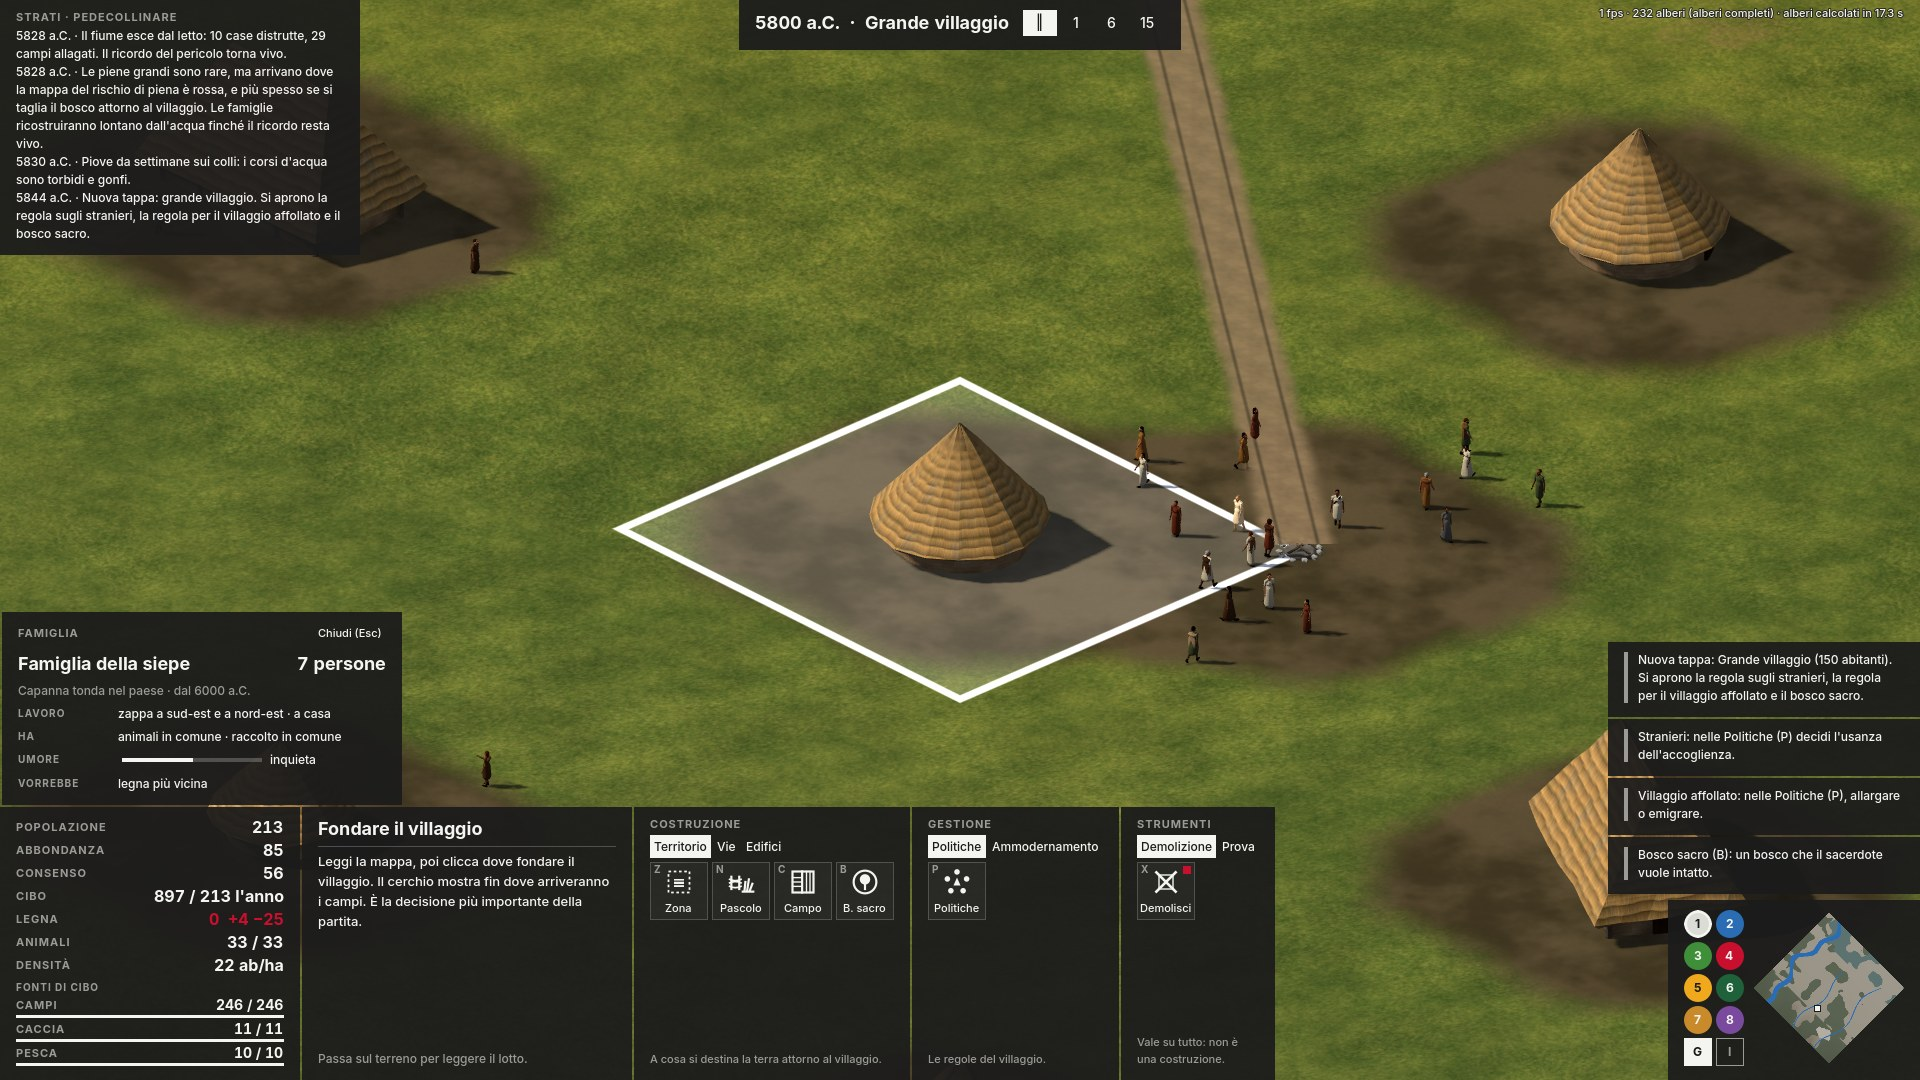
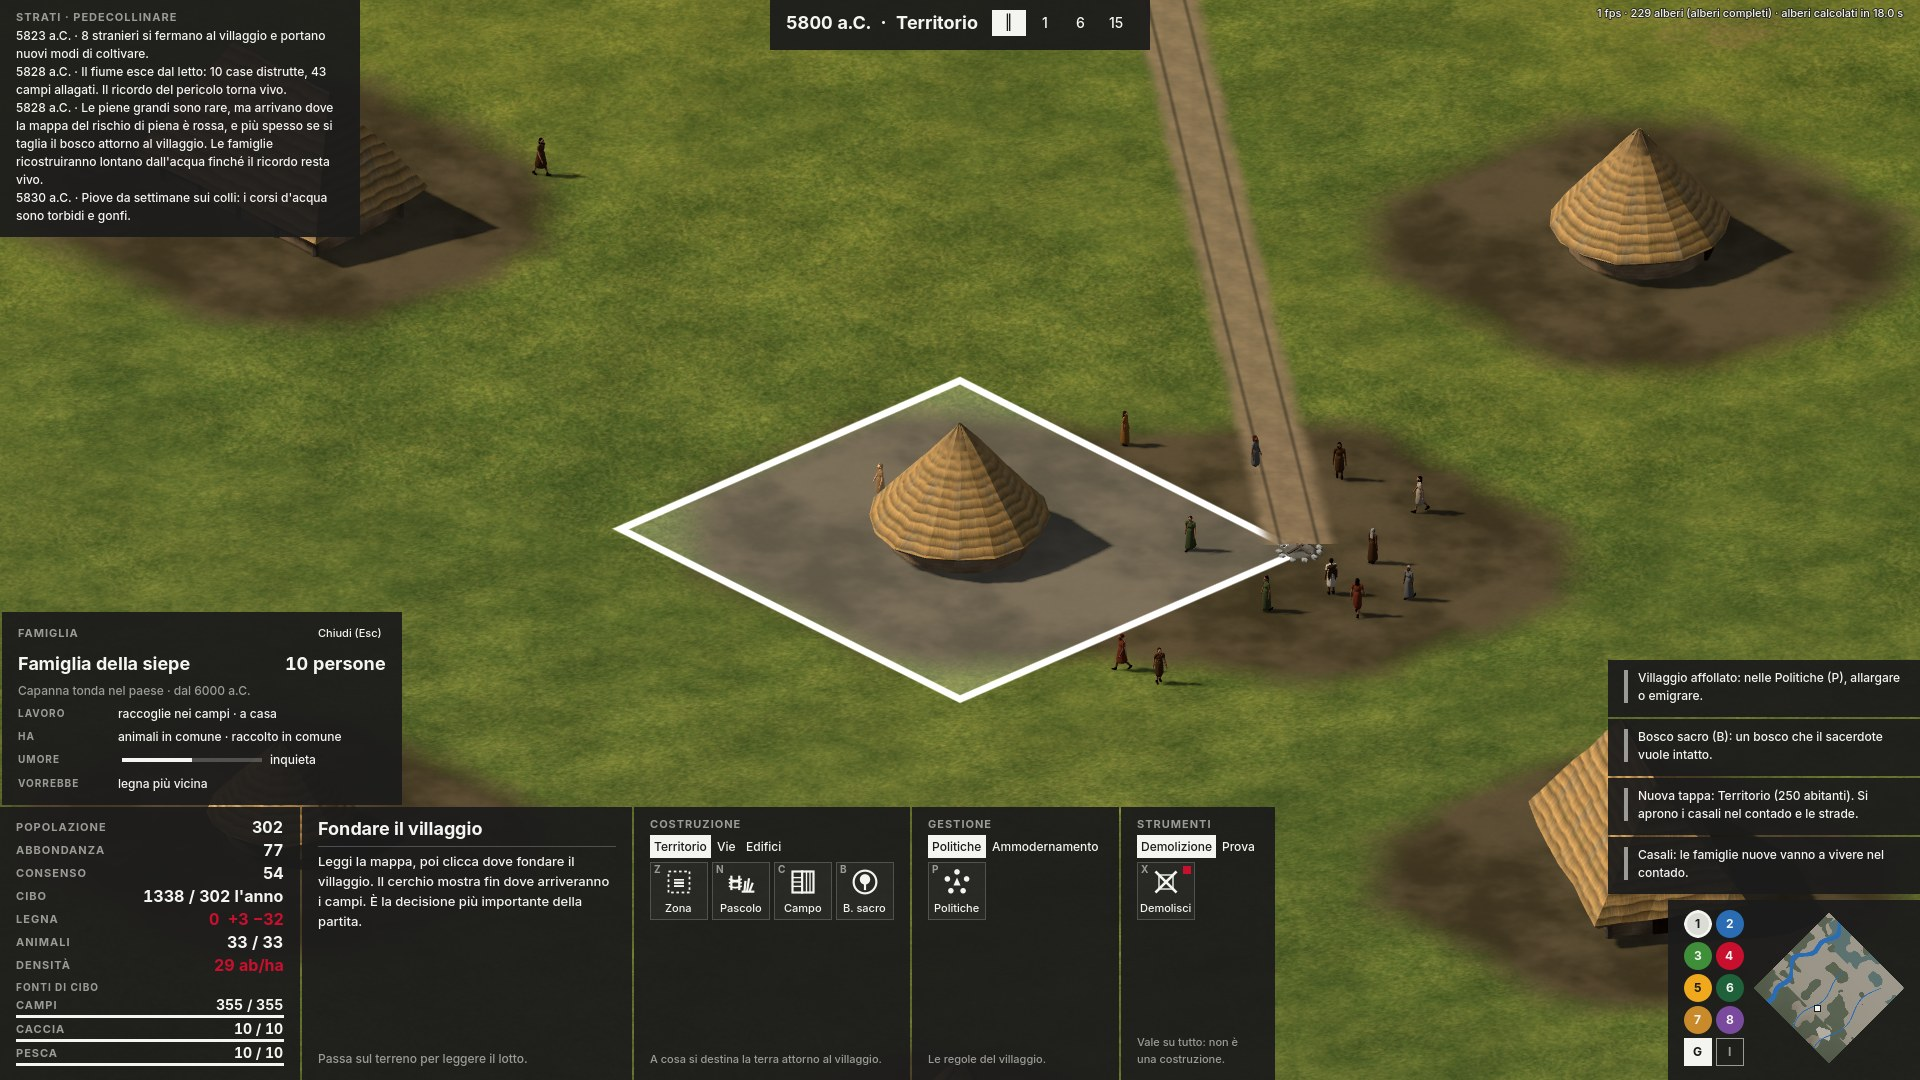
Umore di ogni famiglia (sola lettura) e prestigio nascosto per l'epoca 2
Claude-Session: https://claude.ai/code/session_01N4eDGq3PGQMQCKzRpjVvR5

diff --git a/docs/prototipo0-godot.md b/docs/prototipo0-godot.md
@@ -89,7 +89,8 @@ Vedi `era-origini.md`. Nel codice (`sim_villaggio.gd`, numeri da tarare, propost
 - **Assi dell'identità nascosti** (`SimVillaggio.identita`, `identita_verso`, `epoche-future.md` § 2): terra (in comune o alle famiglie), apertura, chi decide, governo, da −1 a 1. Seguono piano le politiche (raccolto, stranieri, disuguaglianza degli animali, granaio), circa 70 anni per fare metà della strada. Non cambiano nessuna regola: li legge lo specchietto e, all'evento soglia 1, serviranno a nominare il primo governo. Pesi dei gruppi in `SimVillaggio.pesi_consenso()`, tensione in `tensione()` (distanza tra i gruppi che contano e consenso basso), andamento in `andamento_consenso()`.
 
 - **Popolazione visibile** (decisione di Fede del 25–26/11/2026, todo voce 7; `script/vista_persone.gd`): ogni figura fa un lavoro vero. Ogni anno si rifà quante figure servono (al massimo 150; una figura vale 1, 2 o 5 persone secondo gli abitanti) e con che mestieri, nella proporzione del lavoro dell'anno: contadini (con la zappa) e raccoglitrici (con il cesto) nei campi, boscaioli attorno alle legnaie attive, pescatori sulla riva accanto ai capanni, cacciatori nel bosco dietro le poste, un pastore per gregge, tre costruttori per cantiere, tre persone al luogo sacro, il resto tra le case. Chi c'è tiene il suo mestiere finché il suo luogo esiste. Le figure camminano a 1,1 m/s, accelerano, girano e si fermano senza scatti; lavorano qualche decina di secondi in un punto, poi vanno in un altro, e ogni tanto tornano a casa e chiacchierano. Si disegnano solo con la vista sotto i 450 m (modelli completi sotto i 140 m). Numeri: proposta di Claude, da misurare con i fotogrammi al secondo sui PC di Fede. Ogni figura abita in una casa vera: le figure si dividono tra le case in parti uguali, e chi perde la casa va in un'altra.
-- **Scheda della famiglia** (decisione di Fede del 26/11/2026: una casa è una famiglia, nome dal luogo, clic su persone e case; `Partita.dati_famiglia`, `Hud._riempi_famiglia`): un clic senza strumenti su una persona o su una casa apre nel pannello di focus "FAMIGLIA": il nome dal luogo della casa (della pietra, del focolare, del guado, dei pioppi, del colle, del casale a nord; altrimenti un nome comune come dell'aia o del noce, senza doppioni: le case più vecchie scelgono per prime), quante persone, il tipo di casa e dove (nel paese o nel casale), da quando (o "arrivati da fuori nel…" per le case nate dopo un'accoglienza di stranieri), e quattro righe con il perché al passaggio del puntatore: **Lavoro** (dai membri visibili), **Ha** (capi e raccolto, secondo la politica del raccolto), **Umore** (il consenso delle famiglie), **Vorrebbe** (dal luogo della casa: al riparo dalle piene, più cibo, una legnaia o legna più vicina, più spazio, terra nuova, un sentiero verso il paese, un luogo sacro, un buon raccolto). La casa si incornicia sul terreno (`lotto_famiglia` nello shader del terreno) e i suoi membri si schiariscono (alfa del colore dell'istanza nello shader delle persone). Un clic altrove o Esc la chiudono. Legge solo dati che la simulazione ha già (`SimVillaggio.nascita_case` e `case_straniere` sono solo memoria): non cambia le dinamiche. Foto: `test/foto_partita.gd -- uscita 45 200 0 famiglia`, immagine `docs/immagini/famiglia-26-11.jpg`.
+- **Scheda della famiglia** (decisione di Fede del 26/11/2026: una casa è una famiglia, nome dal luogo, clic su persone e case; `Partita.dati_famiglia`, `Hud._riempi_famiglia`): un clic senza strumenti su una persona o su una casa apre nel pannello di focus "FAMIGLIA": il nome dal luogo della casa (della pietra, del focolare, del guado, dei pioppi, del colle, del casale a nord; altrimenti un nome comune come dell'aia o del noce, senza doppioni: le case più vecchie scelgono per prime), quante persone, il tipo di casa e dove (nel paese o nel casale), da quando (o "arrivati da fuori nel…" per le case nate dopo un'accoglienza di stranieri), e quattro righe con il perché al passaggio del puntatore: **Lavoro** (dai membri visibili), **Ha** (capi e raccolto, secondo la politica del raccolto), **Umore** (della famiglia: il consenso delle famiglie più uno scarto dalla sua situazione, con i motivi a parole; vedi sotto), **Vorrebbe** (dal luogo della casa: al riparo dalle piene, più cibo, una legnaia o legna più vicina, più spazio, terra nuova, un sentiero verso il paese, un luogo sacro, un buon raccolto). La casa si incornicia sul terreno (`lotto_famiglia` nello shader del terreno) e i suoi membri si schiariscono (alfa del colore dell'istanza nello shader delle persone). Un clic altrove o Esc la chiudono. Legge solo dati che la simulazione ha già (`SimVillaggio.nascita_case` e `case_straniere` sono solo memoria): non cambia le dinamiche. Foto: `test/foto_partita.gd -- uscita 45 200 0 famiglia`, immagine `docs/immagini/famiglia-26-11.jpg`.
+- **Umore e prestigio di ogni famiglia** (decisione di Fede del 26/11/2026, `SimVillaggio.umore_famiglie`, `SimVillaggio.prestigio_case`): solo lettura nel villaggio. L'umore è il consenso delle famiglie più uno scarto: pesano la casa ricostruita dopo una piena disastrosa (−12, che si spegne in 20 anni), la casa dove arrivano le piene (−8), la legna oltre 500 m (−6), i campi vicini stanchi (−5), il casale senza sentiero (−5); aiutano la vicinanza al focolare e al luogo sacro (+3 l'una). Gli scarti si bilanciano, quindi la media resta il consenso del gruppo (numeri: proposta di Claude). Il **prestigio**, nascosto, cresce ogni anno con la vicinanza al focolare e al luogo sacro e, con il raccolto alle famiglie, con gli animali (che vanno di più a chi ha già prestigio): servirà nell'epoca 2 a dividere le famiglie in eminenti e comuni, il cui umore comporrà il consenso (più peso alle eminenti).
 
 ## Verifiche
 - `test/verifica_villaggio.gd`: valutazione dei siti, azioni, una partita di 500 anni per ogni sito con un giocatore automatico, nessuna casa sull'acqua, simulazione deterministica con lo stesso seme.

diff --git a/docs/todo.md b/docs/todo.md
@@ -126,7 +126,7 @@ Si muove verso    terra alle famiglie · più aperta
 **Deciso** (`era-origini.md` § 2 e § 5): si apre quando il territorio è pieno e si è dentro la finestra (~3000–1800 a.C.); presagi (oggetti di rame, mercanti), dilemma aprirsi o restare isolati, transizione con riepilogo. **Passo elastico:** un anno per passo nei primi quattro secoli, poi un decennio (le regole vanno scritte per anno e moltiplicate per il passo). Oggi la partita finisce a 5500 a.C. (`ANNO_FINE`).
 
 ### 7. [~] Popolazione visibile
-**Fatto il 26/11/2026 pomeriggio** (descrizione in `prototipo0-godot.md` e `asset.md`; foto `docs/immagini/persone-26-11.jpg`, `persone-nel-gioco-26-11.jpg`): sei persone in due livelli con le vesti del Neolitico, cinque attrezzi, colori per figura e animazioni nello shader, figure legate ai lavori della simulazione, tetto di 150 figure. **Rifiniti in serata** viso e spalle su richiesta di Fede (`docs/immagini/ritratti-prima-dopo-26-11.jpg`). **Fatta in serata** la scheda della famiglia (clic su persone e case, nome dal luogo: `prototipo0-godot.md`, `docs/immagini/famiglia-26-11.jpg`). **Resta:** l'umore di ogni famiglia in sola lettura (deciso da Fede il 26/11/2026, `era-origini.md` § 6; riepilogo da confermare prima del codice), la prova di Fede (aspetto delle persone, scheda e fotogrammi al secondo, anche insieme agli animali), le figure che camminano lungo i sentieri (con la voce 5).
+**Fatto il 26/11/2026 pomeriggio** (descrizione in `prototipo0-godot.md` e `asset.md`; foto `docs/immagini/persone-26-11.jpg`, `persone-nel-gioco-26-11.jpg`): sei persone in due livelli con le vesti del Neolitico, cinque attrezzi, colori per figura e animazioni nello shader, figure legate ai lavori della simulazione, tetto di 150 figure. **Rifiniti in serata** viso e spalle su richiesta di Fede (`docs/immagini/ritratti-prima-dopo-26-11.jpg`). **Fatta in serata** la scheda della famiglia (clic su persone e case, nome dal luogo: `prototipo0-godot.md`, `docs/immagini/famiglia-26-11.jpg`). **Fatti anche** l'umore di ogni famiglia in sola lettura e il prestigio nascosto (decisione di Fede del 26/11/2026, `era-origini.md` § 6). **Resta:** la prova di Fede (aspetto delle persone, scheda e fotogrammi al secondo, anche insieme agli animali), le figure che camminano lungo i sentieri (con la voce 5).
 **Deciso** (25/11/2026): ogni figura fa un lavoro vero della simulazione (campi, bosco, fiume, pascolo, cantieri, sentieri, luogo sacro); **3 modelli di uomini e 3 di donne** che si ripetono, con capelli, incarnato e vesti che variano; animazioni dallo shader; MultiMesh; si vedono solo da vicino; **scala da verificare con la simulazione** (800 persone a schermo sono troppe: tetto di figure visibili, una figura per 1, 2 o 5 persone). Clic su una persona: la scheda della sua famiglia. Prima il bestiame (voce 2), poi i lavoratori, poi chi cammina, poi la scheda.
 **Deciso** (Fede, 26/11/2026): viene subito dopo la voce A; **servono anche le animazioni** (camminare, lavorare secondo il mestiere, stare fermi, parlare in gruppo) e **attenzione al livello di dettaglio**, con la stessa cura degli animali (corpo unico, vesti e capelli verosimili, due livelli di dettaglio secondo lo zoom, riferimento Age of Empires IV). A ogni modello, foto a Fede.
 

diff --git a/docs/era-origini.md b/docs/era-origini.md
@@ -192,7 +192,7 @@ Mappe tematiche da aggiungere [ok di Fede, 25/11/2026]: boschi e selvaggina, abi
 | Crisi che la chiude | evento soglia 2, "la città si dà leggi" (~900–600 a.C.) |
 
 - **Famiglie eminenti e comuni [Deciso, 25/11/2026: gestire con attenzione gli equilibri di potere].** **[Deciso, 25/11/2026]** La divisione non si impone al cambio d'epoca: **nasce dalla partita.** Le famiglie si dividono in due solo quando la disuguaglianza supera una soglia, e la disuguaglianza viene da ciò che il giocatore ha fatto (raccolto alle famiglie, animali, metallo dallo scambio). Le eminenti vogliono prestigio, difesa e scambi; le comuni terra, cibo e protezione. Il rischio da governare è che le eminenti si prendano il potere (pilastro 3). Va pensato in modo che il giocatore veda la divisione crescere (indicatore di disuguaglianza, scheda della famiglia) e possa tenerla in equilibrio senza che diventi una punizione.
-- **Umore di ogni famiglia [Deciso, 26/11/2026, Fede].** Una casa è una famiglia, e ogni famiglia ha il suo umore: il consenso delle famiglie più uno scarto che viene dalla sua situazione (dove sta la casa, cosa le è successo). Nel villaggio è **solo lettura**: si vede nella scheda della famiglia e la media resta il consenso del gruppo (nell'epoca 1 è ancora tutto in definizione). **Dall'epoca 2** le famiglie si dividono col tempo in eminenti e comuni secondo la **posizione di prestigio** che hanno ottenuto; da lì in poi è la loro caratteristica, e l'umore di tutte le famiglie compone il consenso generale, con un peso maggiore per le eminenti (una famiglia eminente di buon umore pesa di più).
+- **Umore di ogni famiglia [Deciso, 26/11/2026, Fede].** Una casa è una famiglia, e ogni famiglia ha il suo umore: il consenso delle famiglie più uno scarto che viene dalla sua situazione (dove sta la casa, cosa le è successo). Nel villaggio è **solo lettura**: si vede nella scheda della famiglia e la media resta il consenso del gruppo (nell'epoca 1 è ancora tutto in definizione). **Dall'epoca 2** le famiglie si dividono col tempo in eminenti e comuni secondo la **posizione di prestigio** che hanno ottenuto; da lì in poi è la loro caratteristica, e l'umore di tutte le famiglie compone il consenso generale, con un peso maggiore per le eminenti (una famiglia eminente di buon umore pesa di più). Il consenso dell'epoca 2 sarà caratterizzato proprio da questa differenza (Fede). Il prestigio si registra già nel villaggio, nascosto (proposta di Claude accolta da Fede): vicinanza al focolare e al luogo sacro, anzianità della casa e, con il raccolto alle famiglie, gli animali.
 - **Casali e centro [Deciso, 25/11/2026]:** i casali sparsi nel contado nell'epoca 1 si uniscono nel centro protourbano (come a Bologna nell'VIII secolo a.C.): è la strada verso l'evento soglia 2.
 
 **Lo schema nell'epoca 2 [Deciso, 26/11/2026]**

diff --git a/docs/diario.md b/docs/diario.md
@@ -2,6 +2,21 @@
 
 Voci più recenti in cima.
 
+## 26/11/2026 (sera, chiusura) — umore e prestigio delle famiglie
+**Fatto**
+- **Umore di ogni famiglia** in sola lettura (`SimVillaggio.umore_famiglie`): il consenso delle famiglie più uno scarto dalla situazione della casa (piena disastrosa ricordata per 20 anni, zona delle piene, legna lontana, campi stanchi vicini, casale senza sentiero; vicinanza al focolare e al luogo sacro). Gli scarti si bilanciano: la media resta il consenso del gruppo, l'equilibrio del villaggio non cambia. Nella scheda della famiglia la barra e la parola sono quelle della famiglia, con i motivi a parole al passaggio del puntatore.
+- **Prestigio nascosto** di ogni famiglia (`SimVillaggio.prestigio_case`), che cresce ogni anno con la vicinanza al focolare e al luogo sacro e, con il raccolto alle famiglie, con gli animali: per dividere le famiglie nell'epoca 2.
+- Decisione scritta in `era-origini.md` § 6 e nello specchietto. Verifiche nuove in `verifica_partita.gd` (la media degli umori è il consenso, il prestigio si registra e non è uguale per tutte). Tutte le 9 verifiche superate; dinamiche invariate (stessi numeri della verifica di prima), quindi niente partite "umane".
+
+**Decisioni** (Fede)
+- Umore per famiglia: solo lettura nel villaggio ("in epoca 1 è ancora tutto in fase di definizione"). Dall'epoca 2 le famiglie si dividono col tempo in **eminenti e comuni** secondo la **posizione di prestigio** ottenuta; l'umore di tutte le famiglie compone il consenso generale, con più peso per le eminenti: il consenso dopo sarà caratterizzato da questa differenza.
+- Registrare il prestigio già nel villaggio, nascosto: sì.
+- Fine sessione dopo le famiglie: diario, verifica dei file e del repository.
+
+**Prossimo passo**
+- Fede: provare nel gioco persone, animazioni, specchietti, scheda della famiglia; dire se "comuni" va bene o preferisce "normali".
+- Claude: voce 4, scorrerie (prima il riepilogo); poi 9 (base tecnica, con il salvataggio), 6 (evento soglia), 10.
+
 ## 26/11/2026 (sera, tardi) — scheda della famiglia
 **Fatto**
 - **Scheda della famiglia** (resto della voce 7): un clic senza strumenti su una persona o su una casa apre nel pannello di focus "FAMIGLIA" il nome dal luogo, quante persone, casa e da quando (o "arrivati da fuori"), e le righe Lavoro, Ha, Umore e Vorrebbe, con il perché al passaggio del puntatore. La casa si incornicia sul terreno e i suoi membri si schiariscono; un clic altrove o Esc la chiudono. Descrizione in `prototipo0-godot.md` e `hud.md`, foto `docs/immagini/famiglia-26-11.jpg`.

diff --git a/docs/specchietto.md b/docs/specchietto.md
@@ -17,7 +17,7 @@
 | # | Epoca | Periodo | Chi governa | Sensibilità | Regolazione dello spazio | Novità di gioco | Si chiude con |
 |---|---|---|---|---|---|---|---|
 | 1 | Villaggio | dal 6000 a.C. | anziani (nessun nome di regime) **D** | sopravvivenza, sacro naturale | spontaneo | campi impliciti, politiche che muovono gli assi in segreto **D** | 1 · Il metallo e lo scambio (~3000–1800 a.C.) |
-| 2 | Abitato protourbano | Bronzo e Ferro | Comunità, Consiglio dei clan, Casa dominante; Capo di guerra come emergenza **D** | difesa, clan | recinto; prime zone dentro e fuori; concessione ai clan **D** | primo regime con un nome, pannello dell'identità, sicurezza **D** | 2 · La città si dà leggi (~900–600 a.C.) |
+| 2 | Abitato protourbano | Bronzo e Ferro | Comunità, Consiglio dei clan, Casa dominante; Capo di guerra come emergenza **D** | difesa, clan | recinto; prime zone dentro e fuori; concessione ai clan **D** | primo regime con un nome, pannello dell'identità, sicurezza; famiglie eminenti e comuni dal prestigio, con il loro umore nel consenso **D** | 2 · La città si dà leggi (~900–600 a.C.) |
 | 3 | Città-stato | VIII–I sec. a.C. | Assemblea dei cittadini, Consiglio delle grandi famiglie, Capo sacro; Signore della città come crisi **D** | ordine civico e sacro, cittadinanza | reticolo, lotti assegnati, confine sacro | cittadinanza, decoro e valore, primo bilancio **D**; colonie **P** | 3 · L'impero arriva (~300 a.C. – 50 d.C.) |
 | 4 | Città imperiale | I sec. a.C. – V sec. d.C. | Città alleata, Municipio, Colonia; Curatore inviato come crisi **D** | monumentalità, ordine, utilità pubblica | reticolo pianificato, centuriazione | potere esterno, manutenzione annua, notabili che pagano le opere, disturbo **D** | 4 · Il crollo (~250–550 d.C.) |
 | 5 | Città in contrazione | V–X sec. | vescovo, signore locale | sicurezza, sacralità | ritorno allo spontaneo, riuso delle rovine | da scrivere | 5 · La rinascita dei commerci (~950–1100) |
